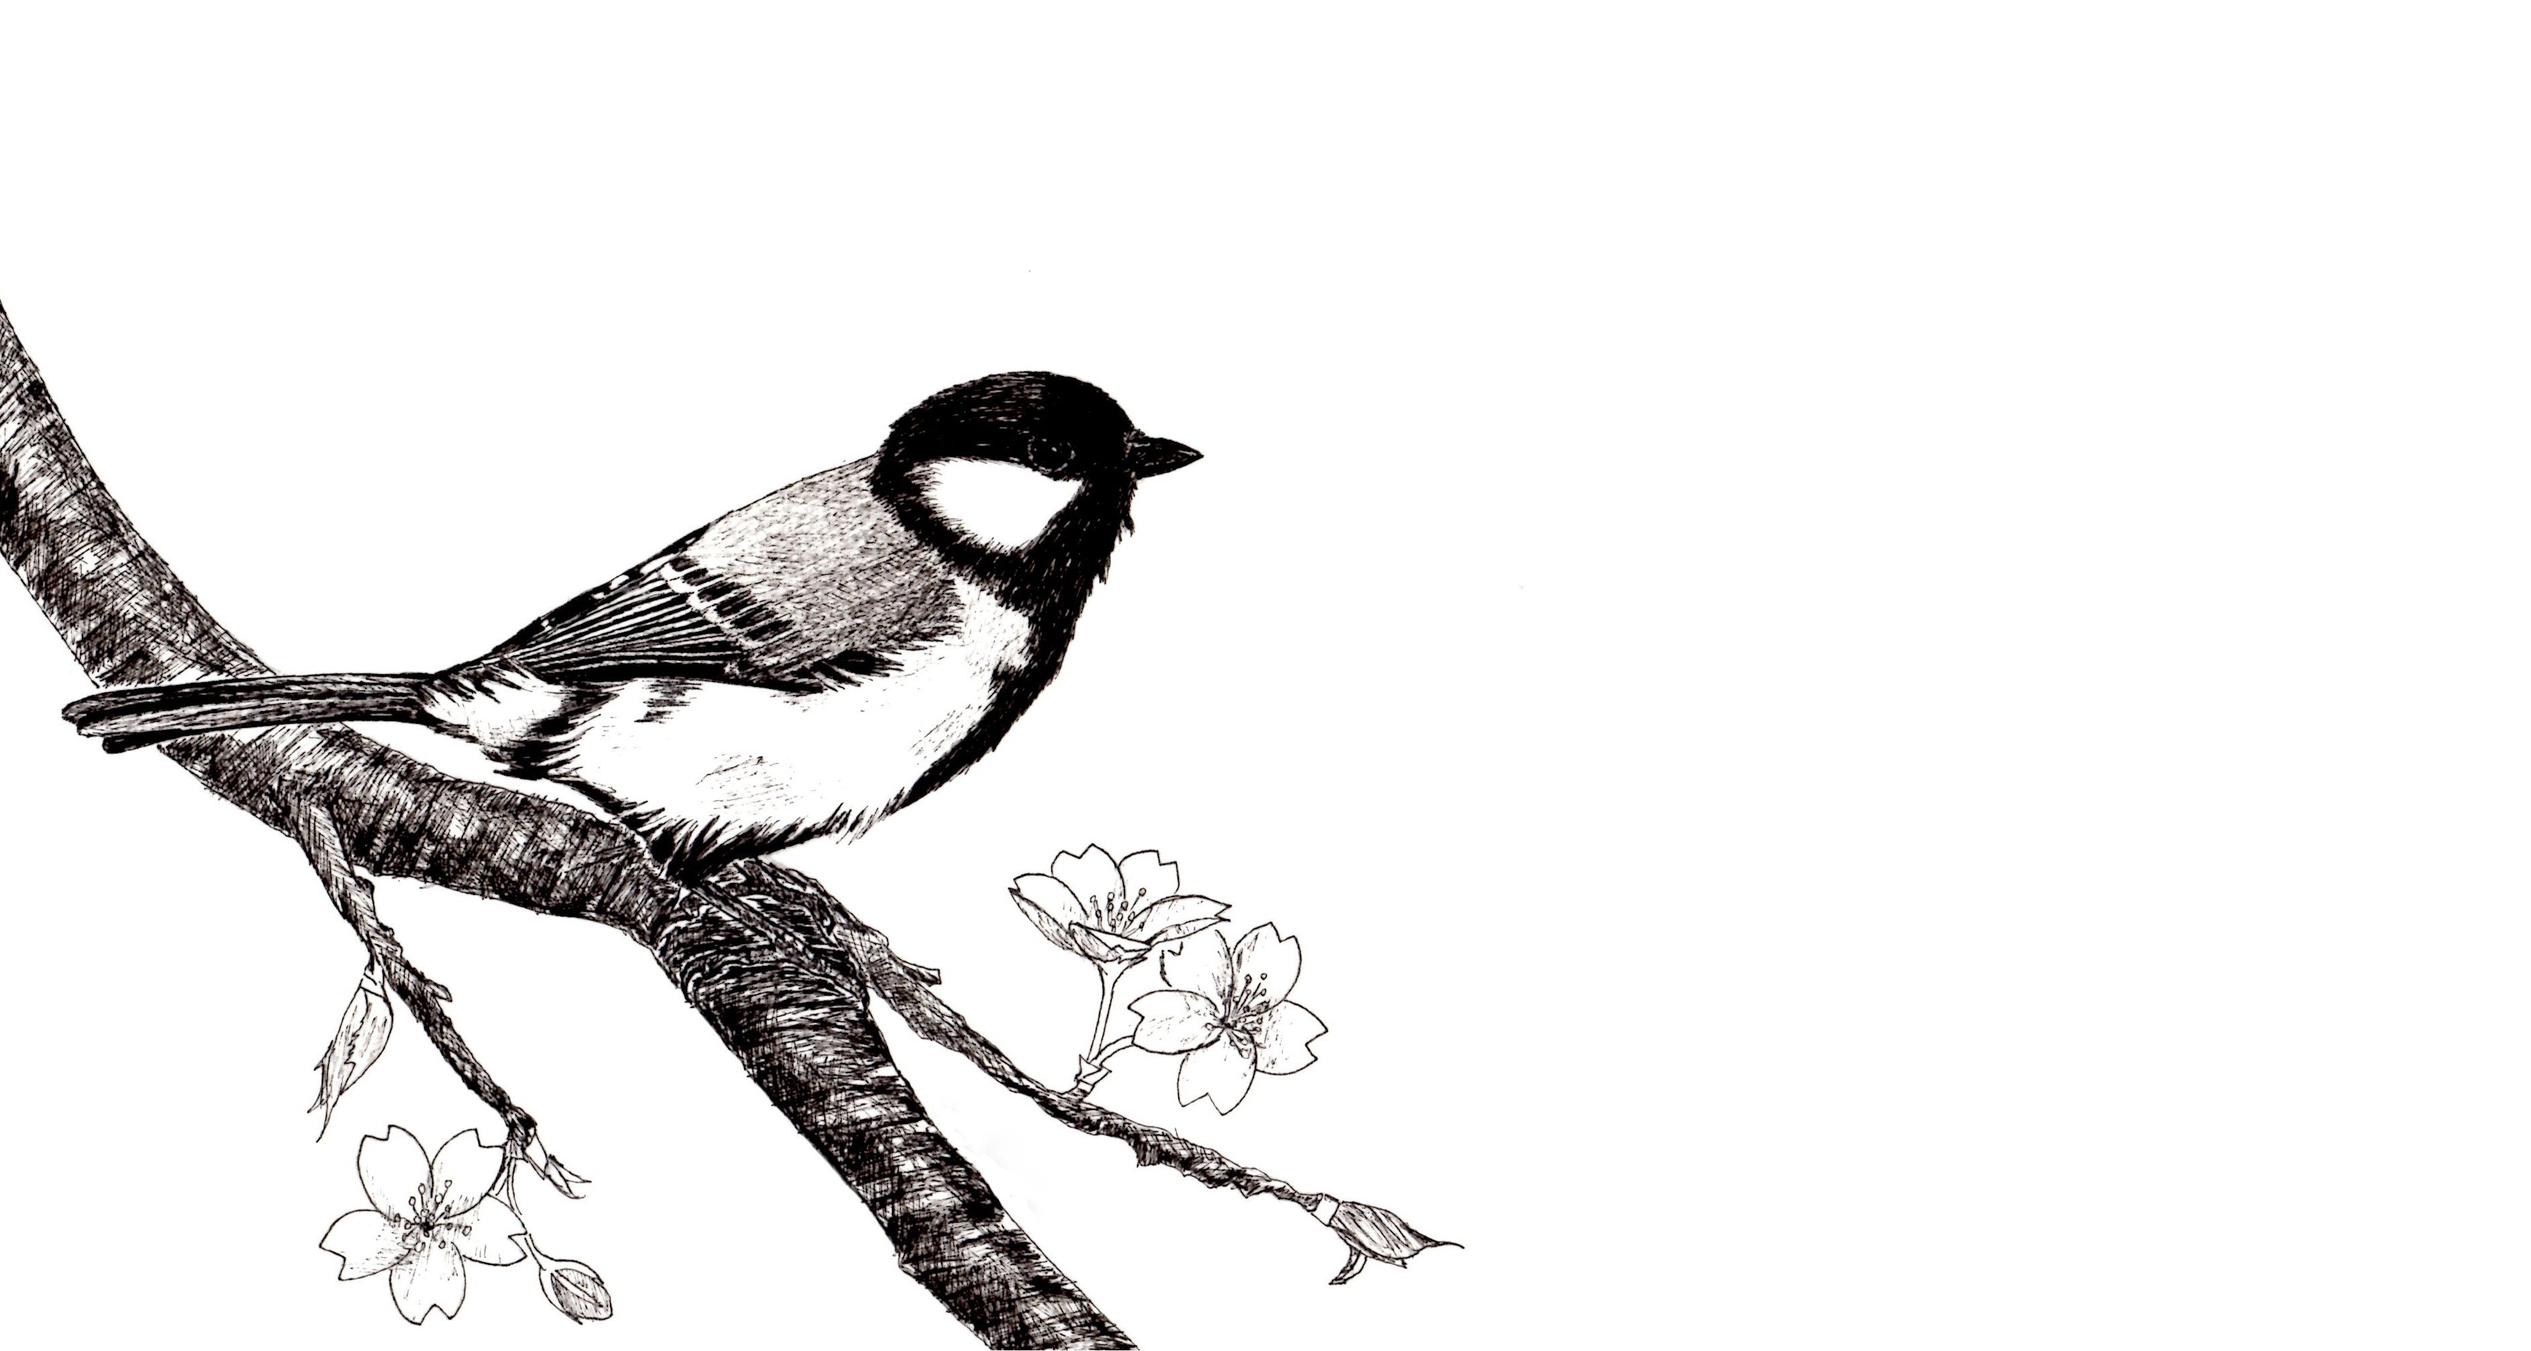
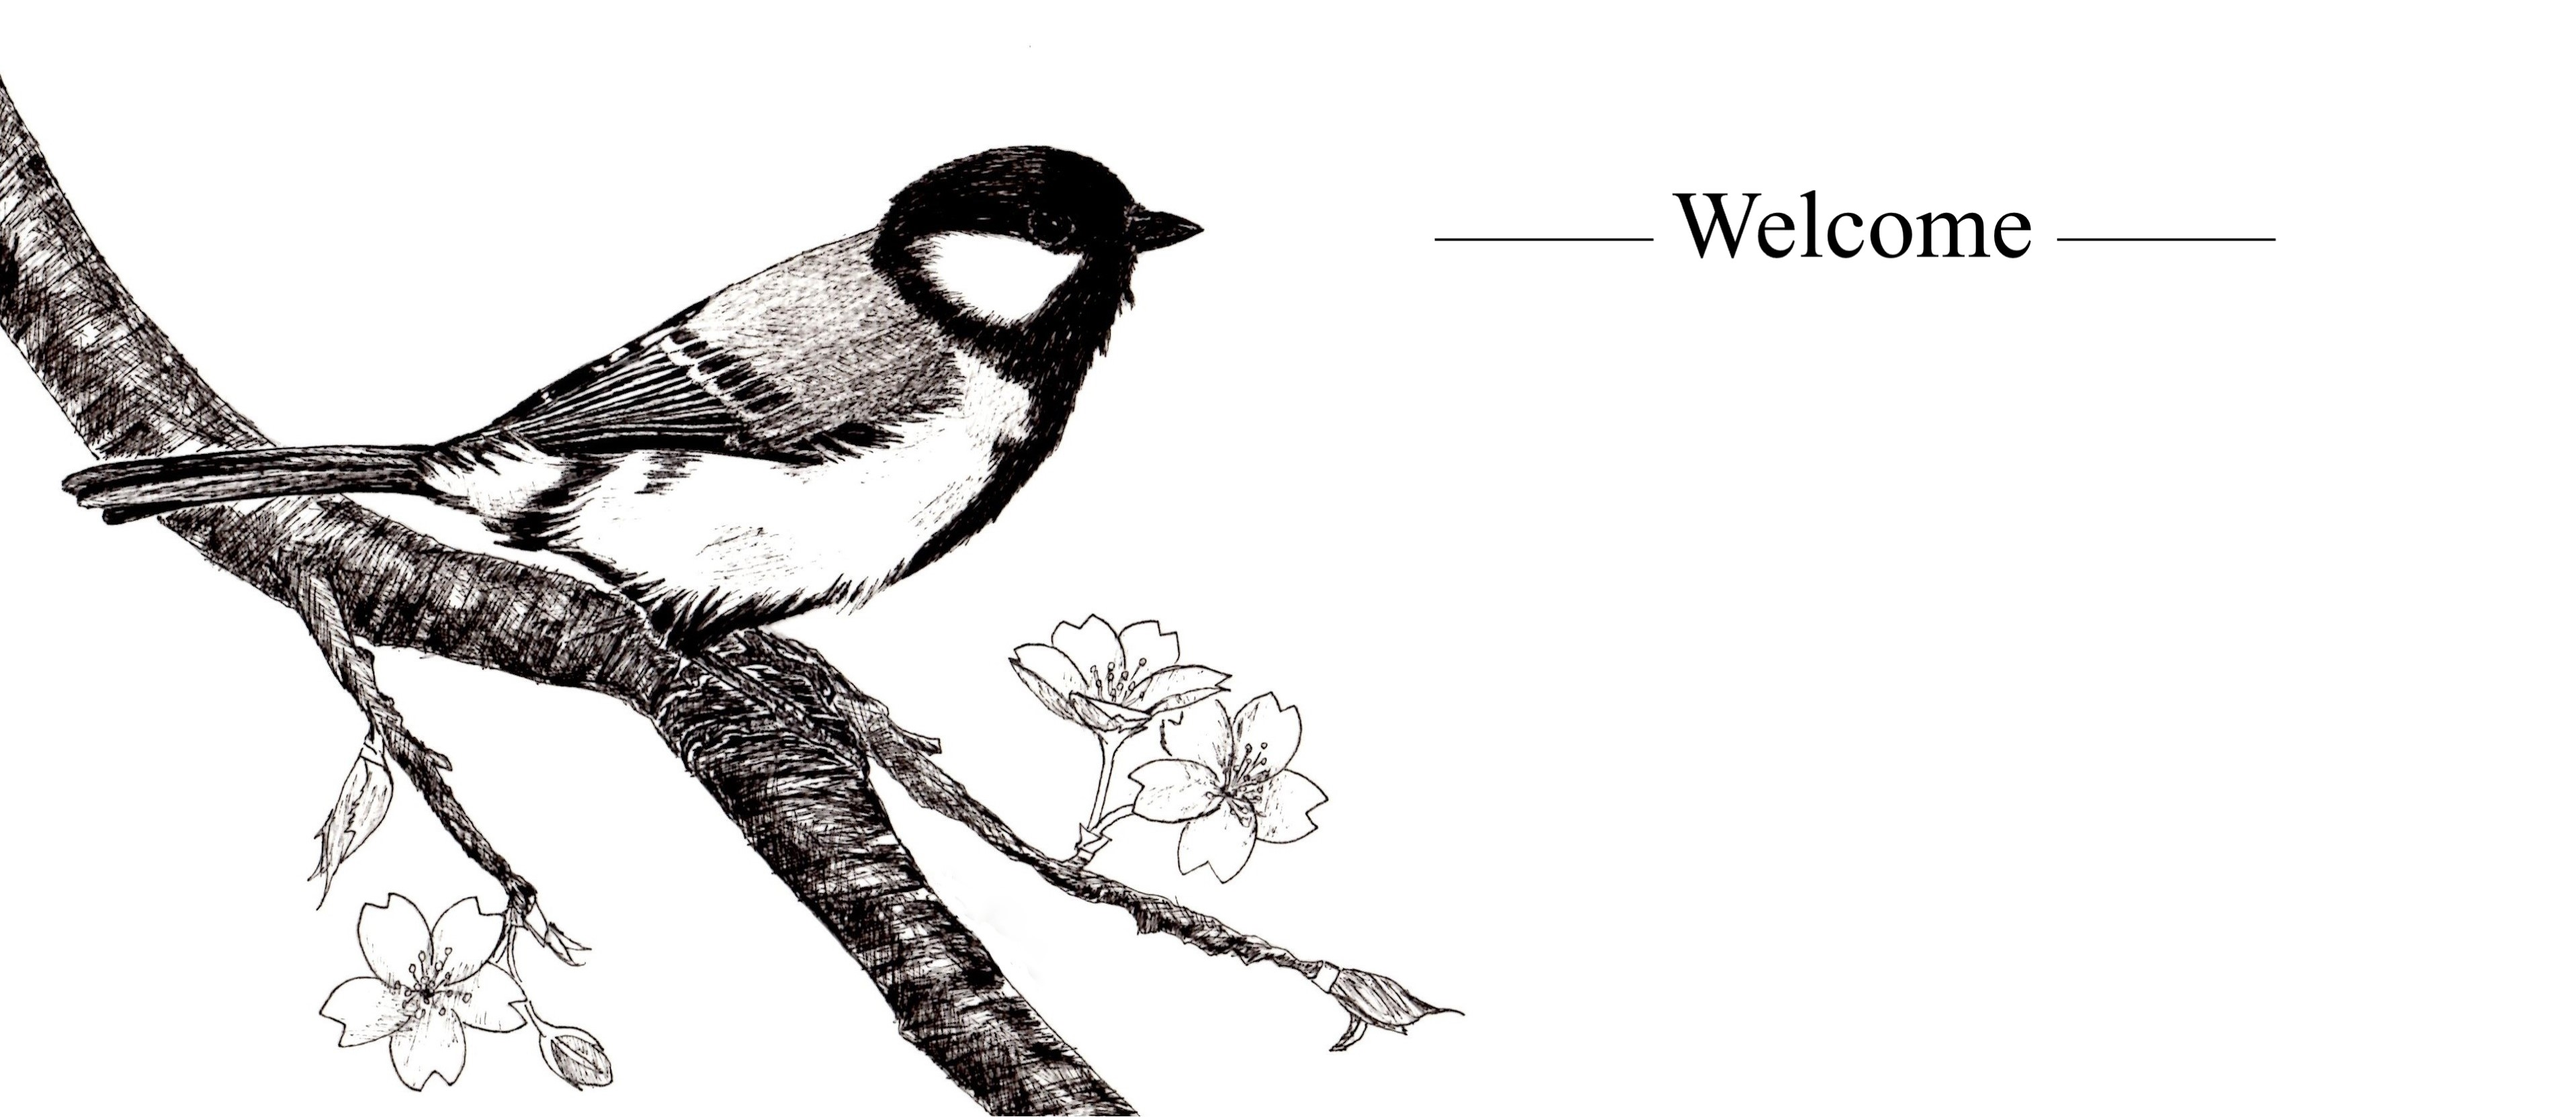
Add files via upload
Added text, proofreading, small little bells and whistles

Changed region(s): [[0.0, 0.092, 0.59, 1.0], [0.6521, 0.1533, 0.8073, 0.2453]]

diff --git a/home.html b/home.html
@@ -53,20 +53,21 @@
 		<div class="about-h1-1"><h1>Hi, My name is Jair! </h1></div>
 		<div class="about-container-text-1">
 			<div>
-				My name is Jair (since it is a hard name, it is pronounced "Yaw + ear")
-				and I have recently (going to in ~T-14 days!) graduated UCSD with a B.S in
-				Cognitive Science specializing in Human Computer Interaction.
-				from UCSD. For the last two years I have spent this time working part-time at a tech
+				My name is Jair (it is phonetically pronounced "Yaw + ear")
+				and I have recently graduated from UCSD with a B.S in
+				Cognitive Science specializing in Human Computer Interaction (in ~T-7 days!).
+			  For the last two years I have spent this time working part-time at a tech
 				startup as a junior software engineer, where I have also been able to expand
 				my software engineering skills and be a part of an agile development process
 				of software creation.
-			</div>
-			<div>
-				I am always trying to continue to learn more about my crosssectional field
-				of interests and find the point where they all meet, and they do! As I am
-				very passionate how essential using the knowldege of cognitive science is to
-				expand the knowlege of computer science and front-end design and vice versa.
-			</div>
+				</div>
+				<div class="icon-padding">
+					I am always trying to continue to learn more about my cross-sectional field
+					of interests and find the point where they all meet, and they do! As I am
+					very passionate about how essential using the knowledge of cognitive science is to
+					expand my knowledge of computer science and vice versa.
+				</div>
+
 		</div>
 	</div>
 </div>
@@ -84,27 +85,25 @@
 		</div>
 
 		<div class="about-container-text-2">
+			<div> I love cognitive science. In hindsight, it is almost an embarrassing fact
+			that I knew nothing about Cognitive Science when I transferred to UCSD to join
+			the Cognitive Science undergraduate program in 2017.
+			Fast-forward to now, I have come to
+			realize that the field involves everything I want from the sciences and the skillset
+			for working in technology that I knew I wanted, which was to not only have a
+			theoretical and abstract background of how software and technology work,
+			but also a more nuanced human aspect, to inform the design of systems
+			ultimately used my humans.</div>
 			<div>
-			Lorem ipsum dolor sit amet, consectetur adipiscing elit, sed do eiusmod tempor
-			incididunt ut labore et dolore magna aliqua. Arcu odio ut sem nulla pharetra
-			diam. Dui nunc mattis enim ut tellus. Suspendisse faucibus interdum posuere
-			lorem ipsum dolor sit amet consectetur. Nunc pulvinar sapien et ligula
-			ullamcorper malesuada proin libero.
-		</div>
-		<div>
-			Suspendisse faucibus interdum posuere
-			lorem ipsum dolor sit amet. Accumsan sit amet nulla facilisi morbi tempus
-			iaculis urna id. Egestas diam in arcu cursus euismod quis viverra nibh.
-			Lectus mauris ultrices eros in cursus turpis massa. Sed viverra ipsum nunc
-			aliquet bibendum enim. Dignissim suspendisse in est ante. Volutpat sed cras
-			ornare arcu dui vivamus arcu. Quisque egestas diam in arcu cursus euismod.
-			Porttitor leo a diam sollicitudin tempor id.
-		</div>
-		<div>
-			Felis bibendum ut tristique
-			et egestas quis ipsum. Facilisis sed odio morbi quis commodo. Mus mauris
-			vitae ultricies leo. Odio euismod lacinia at quis risus sed vulputate odio.
-			Faucibus nisl tincidunt eget nullam non nisi est sit amet.
+			The advantages I have with my CogSci background is that it provides me to
+			have a more holistic and versatile view of technology and thinking. The
+			psychology and neuroscientific background inform my design-based specialization
+			and had instilled a user-first mindset, in addition to the ability to
+			conduct user research to inform UI/UX creation and upkeep. Meanwhile my
+			programming knowledge provides me with more technical skills in addition to
+			my experience working at a startup living the weekly Agile 2.0 life and
+			making sure my tickets pass through Q/A and peer review lanes before
+			moving to done. :)
 		</div>
 		</div>
 	</div>
@@ -126,23 +125,23 @@ improve productivity, etc.
 
 		<div class="about-container-text-3">
 			<div>
-				Througout my two years pursuing my undergraduate at UCSD and presently,
+				Throughout my two years pursuing my undergraduate at UCSD and presently,
 				I have gained experience working in the life sciences through working at
 				at a local startup that offers technological solutions and assistance for
 				clinical trials in 1-3 phases.
 			</div>
-			<div>
-				I am fortuante to have this experience as it has demonstrated to me the
-				syntheseis between abstract technology, software engineering, and product
+			<div class="icon-padding">
+				I am fortunate to have this experience as it has demonstrated to me the
+				synthesis between abstract technology, software engineering, and product
 				applications while allowing me to build skills as a working in a formal
 				team. I have been able to witness and be a part of software creation from
 				planning to launch, which has reinforced to me the influential effects that abstract
 				sciences can have in the medical field and life sciences.
 			</div>
-			<div>
+			<div class="icon-padding">
 				My experience, along with my interdisciplinary and mixed cognitive science
 				and computer science background, has me excited and eager to continue
-				growing my skills and being apart of this sort of progress in the future.
+				growing my skills and being apart of this kind of progress in the future.
 			</div>
 		</div>
 	</div>
@@ -164,20 +163,22 @@ and books to read.
 		<div class="about-container-text-4">
 			<div>
 				Learning has been a necessity and a constant in my life, not only for my
-				professional endevors, but for my own personal growth and getting my neurons
+				professional endeavors, but for my own personal growth and getting my neurons
 				firing and forming new connections.
 			</div>
 			<div>
 				Outside of my professional pursuits in the sciences, particular areas I tend
 				to be found in an arm chair reading about during any free time—a cup of tea
-				at my side and my trusty sennheisers in tow—are cognitive neuroscience,
+				at my side and my trusty Sennheiser’s in tow—are cognitive neuroscience,
 				history, and reading old literature, as I am a total book worm.
 			</div>
 			<div>
 				When not doing the above I am also an enthusiastic gamer
-				(eagerly awaiting Cyberpunk 2077), I love to eat deserts, be a cat mama,
-				and proud nerd. I am also hoping to relearn how to play the piano and
-				get better at learning spanish, two of my 2019 new years resolutions.
+				(eagerly awaiting
+				<a href="https://www.youtube.com/watch?v=8X2kIfS6fb8" target="_blank">Cyberpunk 2077</a>
+				!!), I love to eat deserts, and be both a cat mama and proud nerd.
+				I am also hoping to relearn how to play the piano and
+				get better at learning Spanish, two of my 2019 new year's resolutions.
 			</div>
 		</div>
 	</div>

diff --git a/styles.css b/styles.css
@@ -170,9 +170,9 @@ li {
 a { text-decoration: none; }
 a:link {color: #1874cd;}
 a:visited {color: #1874cd;}
-a:hover {color: #d63131; }
-a:active {color: #1874cd; }
-input:hover { color: silver; }
+a:hover {color: white; }
+a:active {color: black; }
+input:hover { color: black; }
 h2:hover { color: #249FE8; }
 
 /**** ids *****/
@@ -203,7 +203,7 @@ h2:hover { color: #249FE8; }
   color: black;
   float: right;
   padding: 0 180px 10px 0;
-  margin-top: -5%;
+  margin-top: -4%;
   margin-right: -3%;
 }
 
@@ -248,8 +248,7 @@ h2:hover { color: #249FE8; }
 /* index classes START */
 .bird-splash {
   margin: -10px 0 0 0;
-  width: 80%;
-  height: 0%;
+  width: 100%;
   align: right;
 }
 
@@ -493,12 +492,11 @@ a:link .index-enter-button {color: white;}
 
 .about-container-text-1 {
   margin: -245px 0 0 360px;
+  padding: 0px !important;
   text-align: left;
   width: 780px;
   height: 275px;
   font-size: 18px;
-  display: flex;
-  flex-wrap: wrap;
 }
 
 .about-container-2 {
@@ -534,13 +532,11 @@ a:link .index-enter-button {color: white;}
 }
 
 .about-container-text-3 {
-  margin: -310px 0 0 15px;
+  margin: -317px 0 0 15px;
   text-align: left;
   width: 770px;
   height: 270px;
   font-size: 18px;
-  display: flex;
-  flex-wrap: wrap;
 }
 
 .about-container-4 {

diff --git a/contact.html b/contact.html
@@ -50,13 +50,13 @@
 			<div class="contact-input-textfield-box"
 				<form method="post" action="mailto:jbacayca@ucsd.edu" enctype="text/plain">
 				 <legend>First Name:<br>
-					 <input class="contact-input-field" type="text" name="first name">
+					 <input placeholder="First name" class="contact-input-field" type="text" name="first name">
 				 </legend>
 				 <legend>Last Name:<br>
-					 <input class="contact-input-field" type="text" name="last name">
+					 <input placeholder="Last name"class="contact-input-field" type="text" name="last name">
 				 </legend>
 				 <legend>Your email:<br>
-					 <input class="contact-input-field" type="text" name="email">
+					 <input placeholder="email@email.com" class="contact-input-field" type="text" name="email">
 				 </legend>
 
 				 <br>

diff --git a/projects.html b/projects.html
@@ -76,7 +76,7 @@
 						</div>
 						<div class="projects-text-padding"><span style="color: white">Floralology 2016 </span>
 							Final project for MiraCosta College MAT 125 web design class using HTML, CSS, JavaScript,
-							JQuery, and Photoshop. Prompt entailed creation of an original concept website for ficticious business.
+							JQuery, and Photoshop. Prompt entailed creation of an original concept website for fictitious business.
 						</div>
 						<div class="projects-text-padding"><span style="color: white">Photo Steganography 2016 </span>
 						Team final project for MCC CS 113 using Java, Huffman tree ADT
